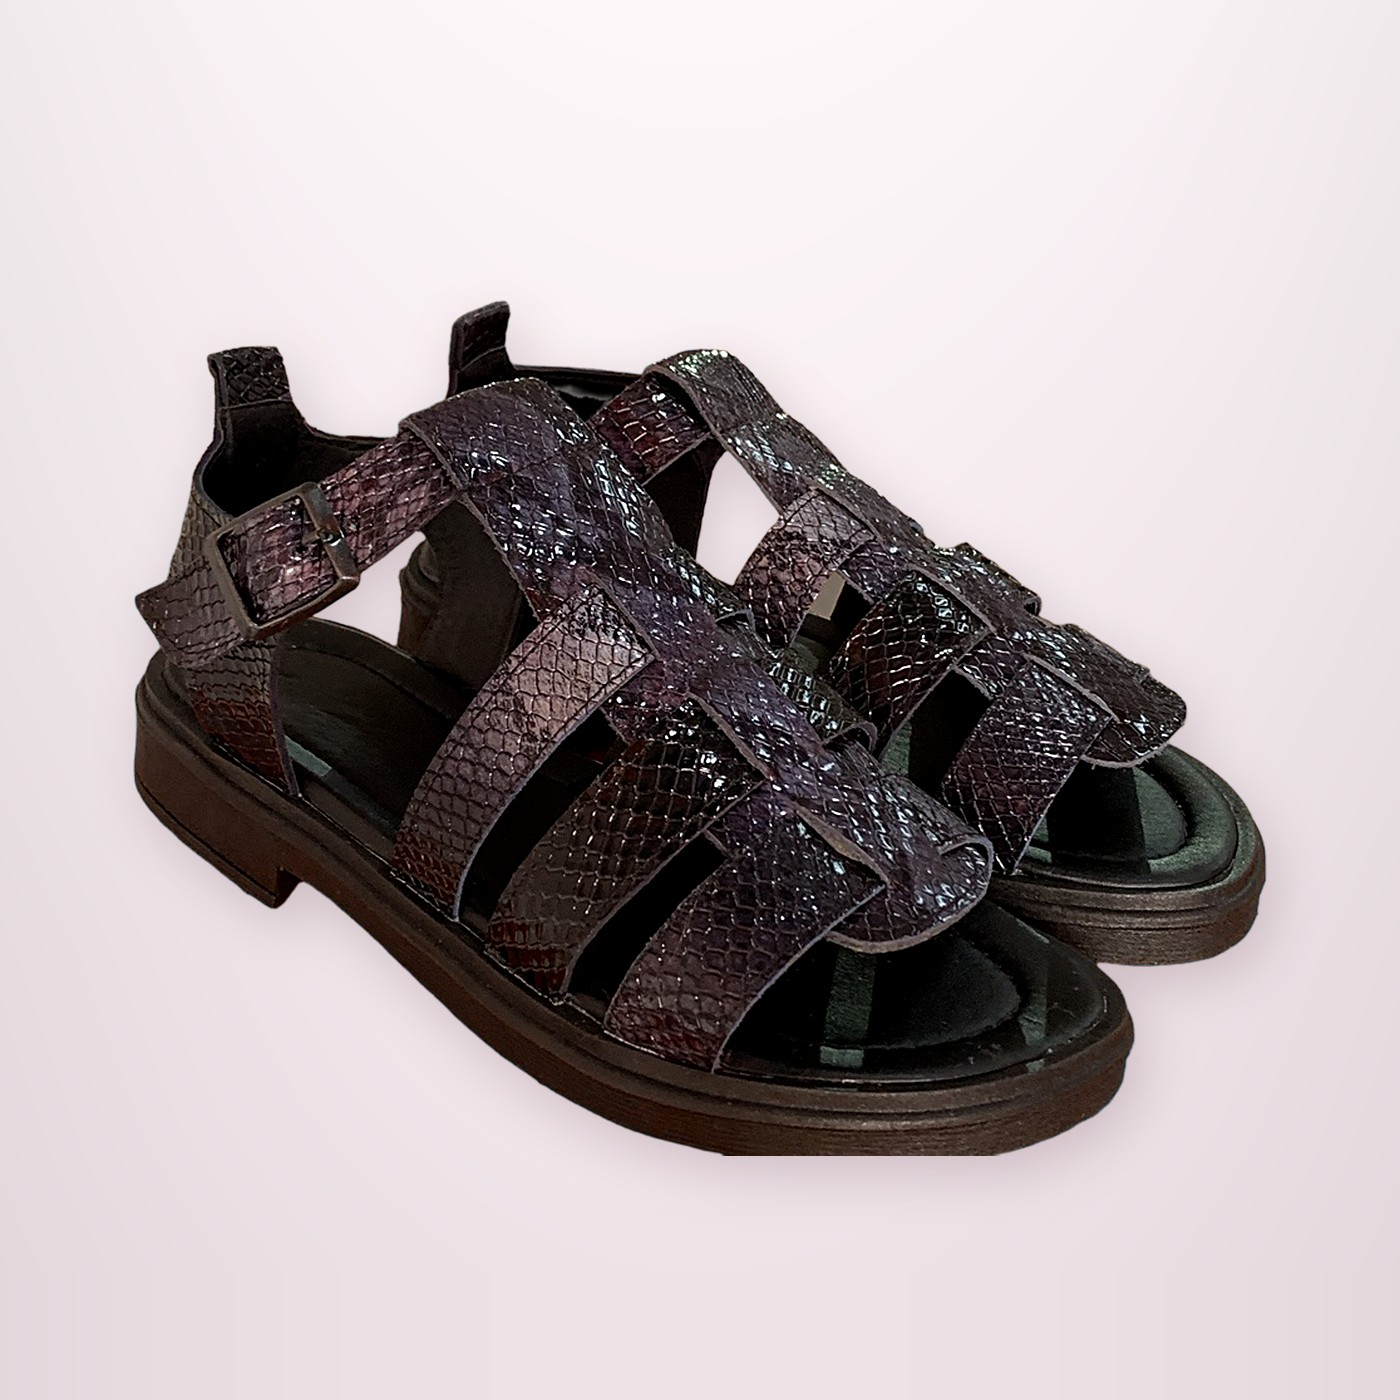
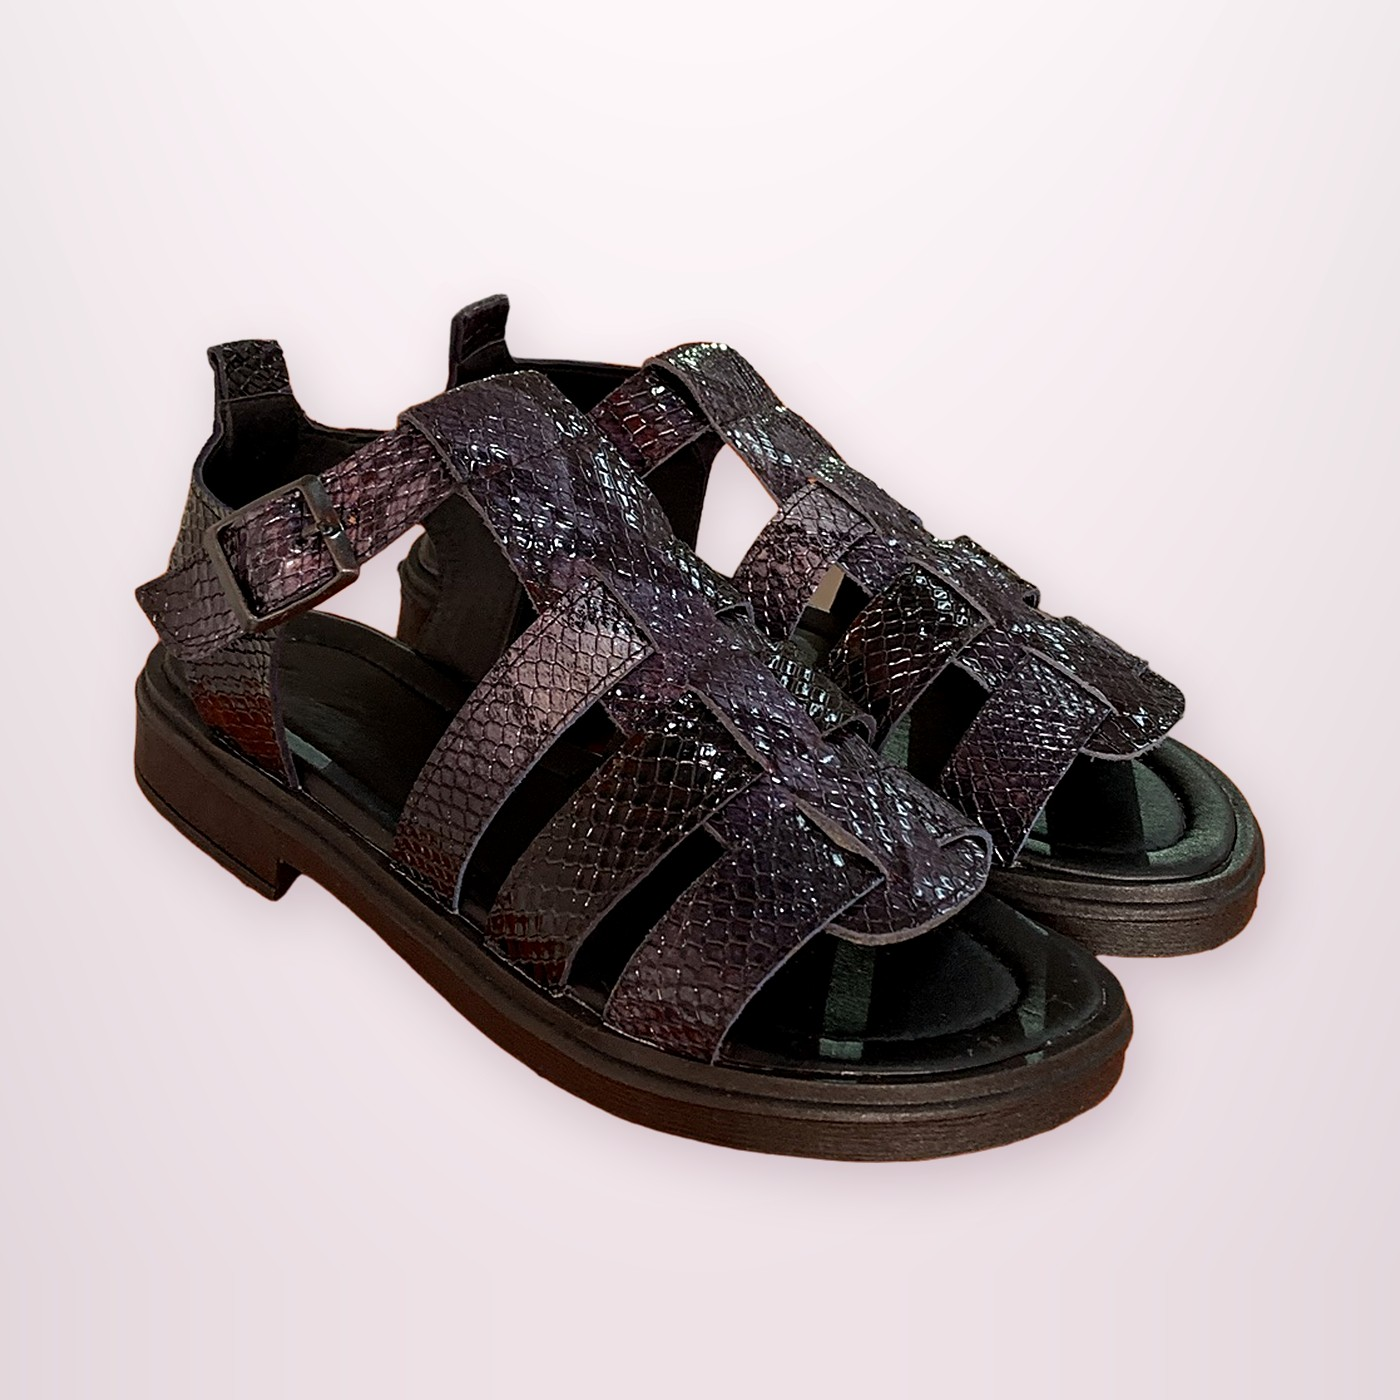
Fotos rehechas sin cortes: sandalias 101, 104-108 y Petty Vaca
Claude-Session: https://claude.ai/code/session_016kC1pPyL2jkNLS5KGy46ZW

diff --git a/CLAUDE.md b/CLAUDE.md
@@ -62,7 +62,7 @@ No hay Node ni Python en las computadoras. `.claude/launch.json` → "tienda" le
 - Chavitos combinados (id 103, 2026-10-18, sección Chavitos; antes "Chavitos de cuero y gamuza": 2026-10-21 el dueño aclaró que son de ECOCUERO, no cuero —no decir "cuero"—; chelsea combinado liso + gamuzado, suela de crepe): Negro, $33.000 ($30.000 + 10%), talles 35–40, foto propia (reflejo naranja de la caja: en el cuero a gris, en la suela a color crepé; modo `crepe` de `plateada.py`).
 - Sandalia Carla (id 104, 2026-10-19, nombre del dueño): Chocolate, $33.000 ($30.000 + 10%), talles 35–40, foto propia (se borraron los logos "Tamara Rey" de las plantillas y el naranja de la caja que se veía por los ojalillos; `BORRAR`/`CAJAFUERA`/`NOCAJA` en `plateada.py`).
 - 2026-10-25, cinco productos nuevos (talles 35–40, fotos propias con el fondo de estudio): Sandalia franciscana símil víbora (id 105, Violeta, cuero), Sandalia franciscana con plataforma (id 106, Negro, cuero; la plantilla roja del talón es real), Sandalia de dos tiras animal print (id 107, NO es de cuero: no decir cuero), Sandalia símil víbora con dos hebillas y anillo al dedo (id 108, Camel, cuero; se borró el hilo de la etiqueta y el recorte se armó también por color, `TONO`/`OSCURO`/`BLANCO_DESDE` en `plateada.py`): las sandalias a $38.500 ($35.000 + 10%). Sueco símil víbora con hebilla (id 109, Blanco, $33.000 = $30.000 + 10%; material no confirmado; se borraron los logos "Tamara Rey" de las plantillas y el reflejo naranja de la caja, modo `salmon`).
-- Fotos cortadas (2026-10-29, el dueño: "las fotos de las sandalias están cortadas"): las de modelos de Pontecomoda están bien; las recortadas con `plateada.py` a las que les falta un pedazo (la sandalia de atrás o la base) son 92 Umma, 93 charol, 94 negro, 99 plata, 101 chocolate, 104 Carla y 87 blanco (esta venía cortada de Instagram). Las fotos originales ya no están (contenedor nuevo): se le pidieron de nuevo al dueño. Al rehacerlas, dejar el recuadro amplio alrededor de los dos calzados.
+- Fotos cortadas (2026-10-29, el dueño: "las fotos de las sandalias están cortadas"): el dueño reenvió las fotos y se rehicieron con el recuadro amplio (`recorte.py` en el scratchpad, reemplaza a `plateada.py`; deja `-chk.jpg` con la máscara para revisar que no falte nada): 105, 106, 107, 108, Petty Vaca (81), 101 Habano y Chocolate y 104 Carla. Siguen pendientes de foto nueva: 92 Umma, 93 charol, 94 negro, 99 plata y 87 blanco.
 - Sin la palabra "chinela" (2026-10-04, pedido del dueño): ids 52/53/54/55 pasaron a "Sandalia gomón con ojalillos", "Sandalia con strass y anillo al dedo", "Sandalia gomón con dos hebillas" (era "estilo Birk", marca ajena) y "Sandalia gomón con tachas cruzadas". Usar "Sandalia" o "Gomón".
 - Bota texana corta (id 2): 2026-09-29 se le unió la "Bota texana punta cuadrada" (id 13, ahora `oculto`) a pedido del dueño. Colores: Suela, Marrón (foto de la ex punta cuadrada), Negro y Blanco (fotos reales). Ya no hay foto pendiente del negro punta cuadrada.
 - Zapatillas animal print (id 69) y animal print con plataforma (id 70) (antes "leopardo", renombradas por el dueño): fotos propias del local (2026-09-29), talles 35–40. Precio cargado por el dueño desde el editor (en la base de datos, no en productos.js).
